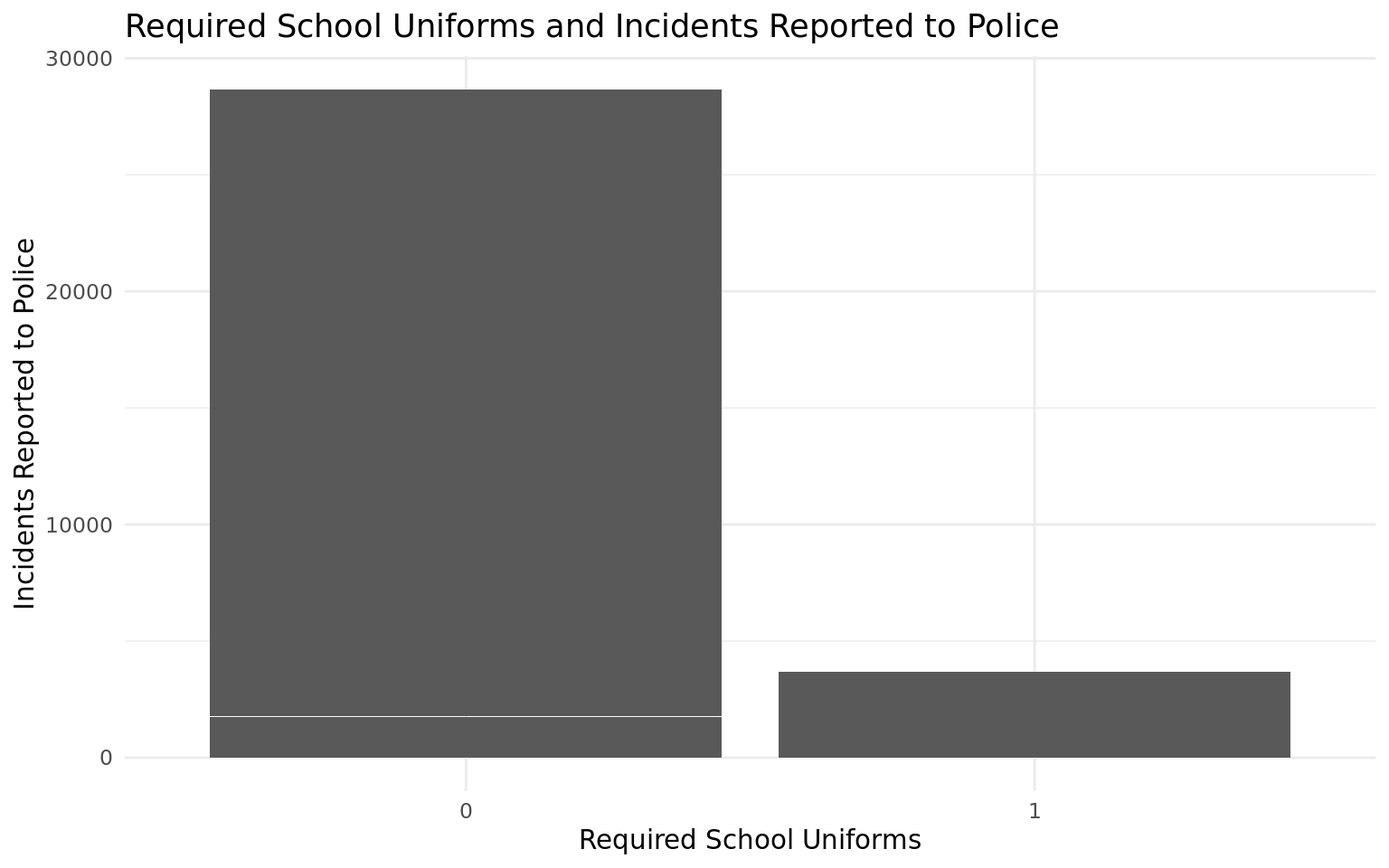
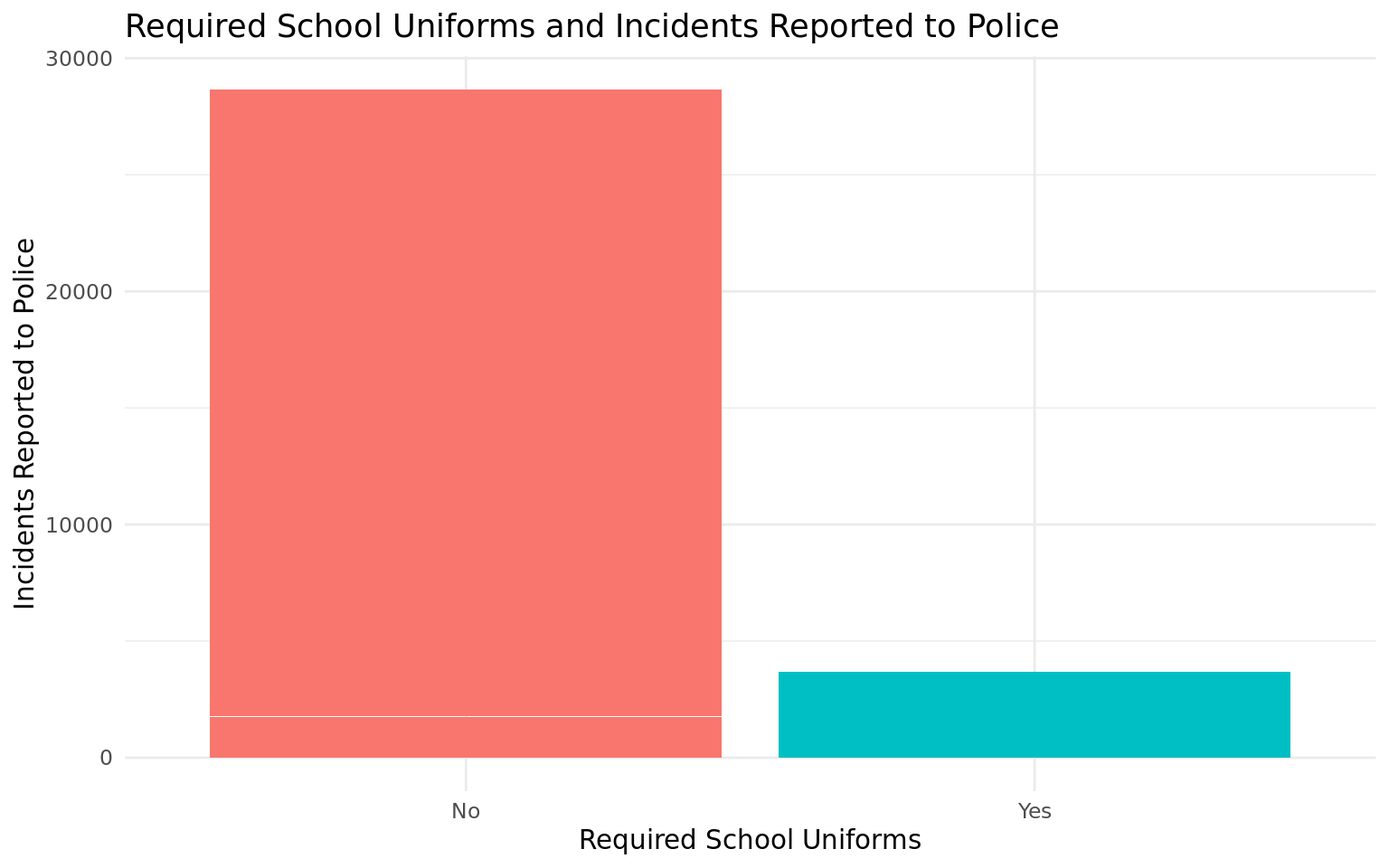
edited all plots. made new resource plot. organized code. - amaia & mili

diff --git a/docs/index.html b/docs/index.html
@@ -153,7 +153,7 @@ ul.task-list li input[type="checkbox"] {
         <div class="navbar-author">The Data Diggers</div>
       </div>
     </div>
-<div id="dashboard-collapse" class="navbar-collapse collapse"><ul class="navbar-nav navbar-nav-scroll me-auto" role="tablist"><li class="nav-item" role="presentation"><a id="tab-home" class="nav-link active" data-bs-toggle="tab" role="tab" data-bs-target="#home" data-scrolling="false" href="#home" aria-controls="home" aria-selected="true"><span class="nav-link-text">Home</span></a></li><li class="nav-item" role="presentation"><a id="tab-c0604-lgbtq-acceptance-groups" class="nav-link" data-bs-toggle="tab" role="tab" data-bs-target="#c0604-lgbtq-acceptance-groups" data-scrolling="false" href="#c0604-lgbtq-acceptance-groups" aria-controls="c0604-lgbtq-acceptance-groups" aria-selected="false"><span class="nav-link-text">C0604: LGBTQ Acceptance Groups</span></a></li><li class="nav-item" role="presentation"><a id="tab-c0610-sworn-law-enforcement-officers" class="nav-link" data-bs-toggle="tab" role="tab" data-bs-target="#c0610-sworn-law-enforcement-officers" data-scrolling="false" href="#c0610-sworn-law-enforcement-officers" aria-controls="c0610-sworn-law-enforcement-officers" aria-selected="false"><span class="nav-link-text">C0610 Sworn law enforcement officers</span></a></li><li class="nav-item" role="presentation"><a id="tab-c0134-uniforms" class="nav-link" data-bs-toggle="tab" role="tab" data-bs-target="#c0134-uniforms" data-scrolling="false" href="#c0134-uniforms" aria-controls="c0134-uniforms" aria-selected="false"><span class="nav-link-text">C0134: Uniforms</span></a></li><li class="nav-item" role="presentation"><a id="tab-c0153-prohibit-use-of-cell-phones" class="nav-link" data-bs-toggle="tab" role="tab" data-bs-target="#c0153-prohibit-use-of-cell-phones" data-scrolling="false" href="#c0153-prohibit-use-of-cell-phones" aria-controls="c0153-prohibit-use-of-cell-phones" aria-selected="false"><span class="nav-link-text">C0153: Prohibit Use of Cell Phones</span></a></li></ul></div></div>
+<div id="dashboard-collapse" class="navbar-collapse collapse"><ul class="navbar-nav navbar-nav-scroll me-auto" role="tablist"><li class="nav-item" role="presentation"><a id="tab-home" class="nav-link active" data-bs-toggle="tab" role="tab" data-bs-target="#home" data-scrolling="false" href="#home" aria-controls="home" aria-selected="true"><span class="nav-link-text">Home</span></a></li><li class="nav-item" role="presentation"><a id="tab-c0604-lgbtq-acceptance-groups" class="nav-link" data-bs-toggle="tab" role="tab" data-bs-target="#c0604-lgbtq-acceptance-groups" data-scrolling="false" href="#c0604-lgbtq-acceptance-groups" aria-controls="c0604-lgbtq-acceptance-groups" aria-selected="false"><span class="nav-link-text">C0604: LGBTQ Acceptance Groups</span></a></li><li class="nav-item" role="presentation"><a id="tab-c0610-sworn-law-enforcement-officers" class="nav-link" data-bs-toggle="tab" role="tab" data-bs-target="#c0610-sworn-law-enforcement-officers" data-scrolling="false" href="#c0610-sworn-law-enforcement-officers" aria-controls="c0610-sworn-law-enforcement-officers" aria-selected="false"><span class="nav-link-text">C0610 Sworn law enforcement officers</span></a></li><li class="nav-item" role="presentation"><a id="tab-c0134-uniforms" class="nav-link" data-bs-toggle="tab" role="tab" data-bs-target="#c0134-uniforms" data-scrolling="false" href="#c0134-uniforms" aria-controls="c0134-uniforms" aria-selected="false"><span class="nav-link-text">C0134: Uniforms</span></a></li><li class="nav-item" role="presentation"><a id="tab-c0176-behavioral-modification-for-students" class="nav-link" data-bs-toggle="tab" role="tab" data-bs-target="#c0176-behavioral-modification-for-students" data-scrolling="false" href="#c0176-behavioral-modification-for-students" aria-controls="c0176-behavioral-modification-for-students" aria-selected="false"><span class="nav-link-text">C0176: Behavioral Modification for Students</span></a></li></ul></div></div>
 </nav>
 </header></header>
 <!-- content -->
@@ -183,12 +183,11 @@ grid-auto-rows: minmax(0, 1fr);">
 </div><div class="card tabset html-fill-item html-fill-container bslib-card" data-bslib-card-init="" data-require-bs-caller="card()" data-full-screen="false">
 <div class="card-header dashboard-card-no-title bslib-navs-card-title">
 
-<ul class="nav nav-tabs card-header-tabs" role="tablist" data-tabsetid="card-tabset-2"><li class="nav-item" role="presentation"><a href="#card-tabset-2-1" role="tab" data-toggle="tab" data-bs-toggle="tab" data-value="Tab 1" aria-selected="true" class="nav-link active">Tab 1</a></li><li class="nav-item" role="presentation"><a href="#card-tabset-2-2" role="tab" data-toggle="tab" data-bs-toggle="tab" data-value="Total Incidents between Urbanicity" aria-selected="false" class="nav-link">Total Incidents between Urbanicity</a></li><li class="nav-item" role="presentation"><a href="#card-tabset-2-3" role="tab" data-toggle="tab" data-bs-toggle="tab" data-value="Tab 3" aria-selected="false" class="nav-link">Tab 3</a></li><li class="nav-item" role="presentation"><a href="#card-tabset-2-4" role="tab" data-toggle="tab" data-bs-toggle="tab" data-value="Tab 4" aria-selected="false" class="nav-link">Tab 4</a></li></ul></div>
+<ul class="nav nav-tabs card-header-tabs" role="tablist" data-tabsetid="card-tabset-2"><li class="nav-item" role="presentation"><a href="#card-tabset-2-1" role="tab" data-toggle="tab" data-bs-toggle="tab" data-value="Urbanicity and Size" aria-selected="true" class="nav-link active">Urbanicity and Size</a></li><li class="nav-item" role="presentation"><a href="#card-tabset-2-2" role="tab" data-toggle="tab" data-bs-toggle="tab" data-value="Total Incidents between Urbanicity" aria-selected="false" class="nav-link">Total Incidents between Urbanicity</a></li><li class="nav-item" role="presentation"><a href="#card-tabset-2-3" role="tab" data-toggle="tab" data-bs-toggle="tab" data-value="School Resources and Practices" aria-selected="false" class="nav-link">School Resources and Practices</a></li></ul></div>
 
 
 
-
-<div class="tab-content html-fill-item html-fill-container" data-tabset-id="card-tabset-2"><div class="tab-pane active show html-fill-item html-fill-container" role="tabpanel" id="card-tabset-2-1"><div class="card-body html-fill-item html-fill-container">
+<div class="tab-content html-fill-item html-fill-container" data-tabset-id="card-tabset-2"><div class="tab-pane active show html-fill-item html-fill-container" role="tabpanel" id="card-tabset-2-1"><div class="card-body html-fill-item html-fill-container" data-title="Urbanicity and Size">
 <div class="cell-output-display html-fill-item html-fill-container">
 <img src="index_files/figure-html/geom tile-1.png" class="img-fluid quarto-dashboard-img-contain">
 </div>
@@ -196,15 +195,10 @@ grid-auto-rows: minmax(0, 1fr);">
 <div class="cell-output-display html-fill-item html-fill-container">
 <img src="index_files/figure-html/Bar graph comparing incidents in the school-1.png" class="img-fluid quarto-dashboard-img-contain">
 </div>
-</div></div><div class="tab-pane html-fill-item html-fill-container" role="tabpanel" id="card-tabset-2-3"><div class="card-body html-fill-item html-fill-container">
+</div></div><div class="tab-pane html-fill-item html-fill-container" role="tabpanel" id="card-tabset-2-3"><div class="card-body html-fill-item html-fill-container" data-title="School Resources and Practices">
 <div class="cell-output-display html-fill-item html-fill-container">
-<div class="plotly html-widget html-fill-item html-fill-container" id="htmlwidget-8db8035c94337abdf35a" style="width:100%;height:406px;"></div>
-<script type="application/json" data-for="htmlwidget-8db8035c94337abdf35a">{"x":{"visdat":{"ab927157ceed":["function () ","plotlyVisDat"]},"cur_data":"ab927157ceed","attrs":{"ab927157ceed":{"x":{},"y":{},"text":{},"hoverinfo":"text","marker":{"color":{},"colorscale":"Viridis"},"alpha_stroke":1,"sizes":[10,100],"spans":[1,20],"type":"bar"}},"layout":{"margin":{"b":40,"l":60,"t":25,"r":10},"title":"How School Resources and Practices impact incidents","xaxis":{"domain":[0,1],"automargin":true,"title":"name","type":"category","categoryorder":"array","categoryarray":["C0110","C0112","C0114","C0116","C0120","C0121","C0122","C0125","C0129","C0134","C0136","C0138","C0139","C0140","C0141","C0142","C0143","C0144","C0146","C0150","C0153","C0155","C0157","C0158","C0161","C0162","C0163","C0165","C0166","C0167","C0169","C0170","C0174","C0175","C0176","C0177","C0179","C0181","C0183","C0186","C0190","C0192","C0204","C0206","C0208","C0210","C0212","C0214","C0216","C0218","C0265","C0266","C0267","C0268","C0269","C0270","C0271","C0272","C0273","C0274","C0276","C0277","C0278","C0600","C0604","C0606","C0608","C0610","C0612","C0614","C0616","C0618","C0621","C0622","C0624","C0626","C0628","C0630","C0632","C0636","C0638","C0640","C0642","C0644","C0646","C0648","C0650","C0661","C0667"]},"yaxis":{"domain":[0,1],"automargin":true,"title":"slope"},"hovermode":"closest","showlegend":false},"source":"A","config":{"modeBarButtonsToAdd":["hoverclosest","hovercompare"],"showSendToCloud":false},"data":[{"x":["C0110","C0112","C0114","C0116","C0120","C0121","C0122","C0125","C0129","C0134","C0136","C0138","C0140","C0139","C0141","C0143","C0142","C0144","C0146","C0150","C0153","C0155","C0158","C0162","C0166","C0170","C0169","C0161","C0157","C0163","C0165","C0167","C0174","C0183","C0176","C0181","C0175","C0177","C0179","C0186","C0600","C0604","C0606","C0608","C0190","C0192","C0204","C0206","C0208","C0210","C0212","C0214","C0216","C0218","C0610","C0612","C0614","C0616","C0618","C0621","C0622","C0624","C0626","C0628","C0630","C0632","C0636","C0638","C0640","C0642","C0644","C0646","C0648","C0650","C0661","C0667","C0266","C0268","C0265","C0267","C0269","C0270","C0272","C0278","C0271","C0273","C0274","C0276","C0277"],"y":[5.2408264462810257,-1.4934518109615009,2.6851247890800107,6.7534264803725863,7.5069566622883697,-0.2886313005563389,0.85698856195285433,7.9913005392651213,3.0375372295839194,-3.9655633616364829,0.93305789797159688,4.4576207093633853,0.0012122974133069214,-0.0099967752337973264,-0.47809664310509148,6.2282407553452774,8.449445608155278,2.3101659961287861,5.0852436154449663,3.3853776933479858,-6.324408691980846,3.1431785547318674,2.1241739288308135,1.0503764584322257,4.1641327033902833,0.51269925851227471,5.0927667131526215,0.30828309777943891,1.0213039551046761,1.5772223664399729,4.7559172541389163,3.6542493672058356,-2.9009574096894486,-1.2861784478693683,-3.6118803418803274,0.4693102089081716,0.91234130001610891,4.1932923316185846,-0.39089238432947643,-0.5686581676750132,4.2655118703429995,14.59515353311137,8.3854052323819452,11.281930045861984,2.6983468279200302,0.78490552931369795,-0.70070027350749642,3.7141710858495123,7.9135351867684758,5.1120427686553098,4.6020738203957414,3.5032041430828391,2.8490534290961222,3.5645380134208398,12.814105393711838,6.6789968278929077,7.0292506376666868,7.0827544040587505,6.8726517271370167,6.7564823100958558,7.1359937849102817,6.744245728972154,8.2271845456166108,6.8318225386007621,7.0390892891317662,7.947499930556436,7.1210145624083898,6.7538030621705376,7.1835786867422193,6.9288936363111402,7.5179763197131315,7.6418972038581412,9.0848717486999835,7.3321287825688248,5.3037245814266498,3.4299559648087103,1.9771093533166966,2.3000428508558644,1.5865777693884211,0.34410159295979365,2.8542184594925444,3.6128117913832676,0.9036948095719608,3.1036009831821354,1.3372205049977928,0.50286325044329871,4.5347264395737845,0.34689794967753279,1.1371500188404129],"text":["Variable:  C0110 <br>Slope:  5.24082644628103","Variable:  C0112 <br>Slope:  -1.4934518109615","Variable:  C0114 <br>Slope:  2.68512478908001","Variable:  C0116 <br>Slope:  6.75342648037259","Variable:  C0120 <br>Slope:  7.50695666228837","Variable:  C0121 <br>Slope:  -0.288631300556339","Variable:  C0122 <br>Slope:  0.856988561952854","Variable:  C0125 <br>Slope:  7.99130053926512","Variable:  C0129 <br>Slope:  3.03753722958392","Variable:  C0134 <br>Slope:  -3.96556336163648","Variable:  C0136 <br>Slope:  0.933057897971597","Variable:  C0138 <br>Slope:  4.45762070936339","Variable:  C0140 <br>Slope:  0.00121229741330692","Variable:  C0139 <br>Slope:  -0.00999677523379733","Variable:  C0141 <br>Slope:  -0.478096643105091","Variable:  C0143 <br>Slope:  6.22824075534528","Variable:  C0142 <br>Slope:  8.44944560815528","Variable:  C0144 <br>Slope:  2.31016599612879","Variable:  C0146 <br>Slope:  5.08524361544497","Variable:  C0150 <br>Slope:  3.38537769334799","Variable:  C0153 <br>Slope:  -6.32440869198085","Variable:  C0155 <br>Slope:  3.14317855473187","Variable:  C0158 <br>Slope:  2.12417392883081","Variable:  C0162 <br>Slope:  1.05037645843223","Variable:  C0166 <br>Slope:  4.16413270339028","Variable:  C0170 <br>Slope:  0.512699258512275","Variable:  C0169 <br>Slope:  5.09276671315262","Variable:  C0161 <br>Slope:  0.308283097779439","Variable:  C0157 <br>Slope:  1.02130395510468","Variable:  C0163 <br>Slope:  1.57722236643997","Variable:  C0165 <br>Slope:  4.75591725413892","Variable:  C0167 <br>Slope:  3.65424936720584","Variable:  C0174 <br>Slope:  -2.90095740968945","Variable:  C0183 <br>Slope:  -1.28617844786937","Variable:  C0176 <br>Slope:  -3.61188034188033","Variable:  C0181 <br>Slope:  0.469310208908172","Variable:  C0175 <br>Slope:  0.912341300016109","Variable:  C0177 <br>Slope:  4.19329233161858","Variable:  C0179 <br>Slope:  -0.390892384329476","Variable:  C0186 <br>Slope:  -0.568658167675013","Variable:  C0600 <br>Slope:  4.265511870343","Variable:  C0604 <br>Slope:  14.5951535331114","Variable:  C0606 <br>Slope:  8.38540523238195","Variable:  C0608 <br>Slope:  11.281930045862","Variable:  C0190 <br>Slope:  2.69834682792003","Variable:  C0192 <br>Slope:  0.784905529313698","Variable:  C0204 <br>Slope:  -0.700700273507496","Variable:  C0206 <br>Slope:  3.71417108584951","Variable:  C0208 <br>Slope:  7.91353518676848","Variable:  C0210 <br>Slope:  5.11204276865531","Variable:  C0212 <br>Slope:  4.60207382039574","Variable:  C0214 <br>Slope:  3.50320414308284","Variable:  C0216 <br>Slope:  2.84905342909612","Variable:  C0218 <br>Slope:  3.56453801342084","Variable:  C0610 <br>Slope:  12.8141053937118","Variable:  C0612 <br>Slope:  6.67899682789291","Variable:  C0614 <br>Slope:  7.02925063766669","Variable:  C0616 <br>Slope:  7.08275440405875","Variable:  C0618 <br>Slope:  6.87265172713702","Variable:  C0621 <br>Slope:  6.75648231009586","Variable:  C0622 <br>Slope:  7.13599378491028","Variable:  C0624 <br>Slope:  6.74424572897215","Variable:  C0626 <br>Slope:  8.22718454561661","Variable:  C0628 <br>Slope:  6.83182253860076","Variable:  C0630 <br>Slope:  7.03908928913177","Variable:  C0632 <br>Slope:  7.94749993055644","Variable:  C0636 <br>Slope:  7.12101456240839","Variable:  C0638 <br>Slope:  6.75380306217054","Variable:  C0640 <br>Slope:  7.18357868674222","Variable:  C0642 <br>Slope:  6.92889363631114","Variable:  C0644 <br>Slope:  7.51797631971313","Variable:  C0646 <br>Slope:  7.64189720385814","Variable:  C0648 <br>Slope:  9.08487174869998","Variable:  C0650 <br>Slope:  7.33212878256882","Variable:  C0661 <br>Slope:  5.30372458142665","Variable:  C0667 <br>Slope:  3.42995596480871","Variable:  C0266 <br>Slope:  1.9771093533167","Variable:  C0268 <br>Slope:  2.30004285085586","Variable:  C0265 <br>Slope:  1.58657776938842","Variable:  C0267 <br>Slope:  0.344101592959794","Variable:  C0269 <br>Slope:  2.85421845949254","Variable:  C0270 <br>Slope:  3.61281179138327","Variable:  C0272 <br>Slope:  0.903694809571961","Variable:  C0278 <br>Slope:  3.10360098318214","Variable:  C0271 <br>Slope:  1.33722050499779","Variable:  C0273 <br>Slope:  0.502863250443299","Variable:  C0274 <br>Slope:  4.53472643957378","Variable:  C0276 <br>Slope:  0.346897949677533","Variable:  C0277 <br>Slope:  1.13715001884041"],"hoverinfo":["text","text","text","text","text","text","text","text","text","text","text","text","text","text","text","text","text","text","text","text","text","text","text","text","text","text","text","text","text","text","text","text","text","text","text","text","text","text","text","text","text","text","text","text","text","text","text","text","text","text","text","text","text","text","text","text","text","text","text","text","text","text","text","text","text","text","text","text","text","text","text","text","text","text","text","text","text","text","text","text","text","text","text","text","text","text","text","text","text"],"marker":{"color":[0.041310626971896254,-0.014893291642717688,0.056633918749019636,0.050596635739071548,0.084143069033811468,-0.0058546120973249861,0.016143376324855969,0.16796675662913088,0.043955045553996479,-0.0612942508178973,0.019609157351814975,0.089766259437350962,1.1183396085692625e-05,-0.00019690248099883892,-0.0090923774305729874,0.13013036965432886,0.12213159833775027,0.044347498729042291,0.066573015581048861,0.058073598577222725,-0.12895151547698036,0.033239649598473413,0.021542198147859182,0.022158025013458021,0.044146061500900433,0.009816930740323436,0.066671503547168859,0.0064964223663188467,0.015260320554235228,0.0167209261925696,0.036387239738087412,0.056842981272980202,-0.031207576385330501,-0.018959986173223885,-0.03581257247110696,0.0054171327327508234,0.019240960396695806,0.056554894647916409,-0.0080449434612677537,-0.0088456540120015852,0.089971755301637757,0.29327811786862429,0.1755419491170889,0.23096532740388606,0.056929588609542239,0.016530395934718726,-0.013943270148352614,0.073329222946301842,0.16513205487850358,0.078282057759280058,0.090036071801015208,0.073837841402154283,0.056150011909095951,0.069470066455576532,0.25364706681834098,0.26321997399700225,0.27438496550545061,0.27447990114795895,0.23365597476602509,0.26558163683478409,0.26980249230236014,0.26490973164836862,0.25746663590798968,0.25595420063170637,0.27451172301503962,0.2830942157666626,0.27451153414313162,0.24457607921288124,0.26683279017899081,0.21893352362269144,0.28408133163311949,0.29313407942880648,0.30190884631146475,0.2730301950221703,0.11094606448333288,0.071171285506689053,0.028088362758996871,0.041302373820101441,0.029521786114678795,0.0054563334279964393,0.059931316129028994,0.030579278551369146,0.019025169330214489,0.058582551743273745,0.027360425010156012,0.0088987423275977227,0.095086954781153074,0.005631865384482391,0.021027375560676714],"colorscale":"Viridis","line":{"color":"rgba(31,119,180,1)"}},"type":"bar","error_y":{"color":"rgba(31,119,180,1)"},"error_x":{"color":"rgba(31,119,180,1)"},"xaxis":"x","yaxis":"y","frame":null}],"highlight":{"on":"plotly_click","persistent":false,"dynamic":false,"selectize":false,"opacityDim":0.20000000000000001,"selected":{"opacity":1},"debounce":0},"shinyEvents":["plotly_hover","plotly_click","plotly_selected","plotly_relayout","plotly_brushed","plotly_brushing","plotly_clickannotation","plotly_doubleclick","plotly_deselect","plotly_afterplot","plotly_sunburstclick"],"base_url":"https://plot.ly"},"evals":[],"jsHooks":[]}</script>
-</div>
-</div></div><div class="tab-pane html-fill-item html-fill-container" role="tabpanel" id="card-tabset-2-4"><div class="card-body html-fill-item html-fill-container">
-<div class="cell-output-display html-fill-item html-fill-container">
-<div class="plotly html-widget html-fill-item html-fill-container" id="htmlwidget-b29a4998e5ee81af4c9b" style="width:100%;height:406px;"></div>
-<script type="application/json" data-for="htmlwidget-b29a4998e5ee81af4c9b">{"x":{"visdat":{"ab9253208f5":["function () ","plotlyVisDat"]},"cur_data":"ab9253208f5","attrs":{"ab9253208f5":{"x":{},"y":{},"text":{},"hoverinfo":"text","marker":{"color":{},"colorscale":"RdBu","colorbar":{"title":"Color Legend"}},"alpha_stroke":1,"sizes":[10,100],"spans":[1,20],"type":"bar"}},"layout":{"margin":{"b":40,"l":60,"t":25,"r":10},"title":"How School resources and practices impact Suspensions","xaxis":{"domain":[0,1],"automargin":true,"title":"name","type":"category","categoryorder":"array","categoryarray":["C0110","C0112","C0114","C0116","C0120","C0121","C0122","C0125","C0129","C0134","C0136","C0138","C0139","C0140","C0141","C0142","C0143","C0144","C0146","C0150","C0153","C0155","C0157","C0158","C0161","C0162","C0163","C0165","C0166","C0167","C0169","C0170","C0174","C0175","C0176","C0177","C0179","C0181","C0183","C0186","C0190","C0192","C0204","C0206","C0208","C0210","C0212","C0214","C0216","C0218","C0265","C0266","C0267","C0268","C0269","C0270","C0271","C0272","C0273","C0274","C0276","C0277","C0278","C0600","C0604","C0606","C0608","C0610","C0612","C0614","C0616","C0618","C0621","C0622","C0624","C0626","C0628","C0630","C0632","C0636","C0638","C0640","C0642","C0644","C0646","C0648","C0650","C0661","C0667"]},"yaxis":{"domain":[0,1],"automargin":true,"title":"slope"},"hovermode":"closest","showlegend":false},"source":"A","config":{"modeBarButtonsToAdd":["hoverclosest","hovercompare"],"showSendToCloud":false},"data":[{"x":["C0110","C0112","C0114","C0116","C0120","C0121","C0122","C0125","C0129","C0134","C0136","C0138","C0140","C0139","C0141","C0143","C0142","C0144","C0146","C0150","C0153","C0155","C0158","C0162","C0166","C0170","C0169","C0161","C0157","C0163","C0165","C0167","C0174","C0183","C0176","C0181","C0175","C0177","C0179","C0186","C0600","C0604","C0606","C0608","C0190","C0192","C0204","C0206","C0208","C0210","C0212","C0214","C0216","C0218","C0610","C0612","C0614","C0616","C0618","C0621","C0622","C0624","C0626","C0628","C0630","C0632","C0636","C0638","C0640","C0642","C0644","C0646","C0648","C0650","C0661","C0667","C0266","C0268","C0265","C0267","C0269","C0270","C0272","C0278","C0271","C0273","C0274","C0276","C0277"],"y":[2.9109842223892062,-1.1393801986518544,1.1781581333266178,4.5401280771789665,4.1596716091264261,-1.0984069876744493,0.22830115827576339,3.2742089466129114,1.0314155267428748,-0.65853720491499834,1.3405970690337634,2.7687083757094597,-0.54995789872105183,-0.45137702330013957,-0.39585055599761526,2.7460061156062356,3.6453422706325931,1.1678202620671523,3.1480622984398212,1.2563738107230273,-2.4786080344229733,1.20317404661726,-0.45412581699344384,1.0702061539349168,2.5129474066767203,-0.10575319860882659,2.1061132659287081,0.21009683385920819,1.1681379477615135,-1.5423643632209978,2.1392468659287731,0.17516244289419017,-2.0587898357659999,-1.8050959327273246,-2.3838603988603881,-0.30116585643584393,0.37384528755573937,2.5836585112348365,-0.36113558654246086,-0.024659680207427929,2.2877437455964591,6.3494346559378529,3.1507155232515123,4.1243564146903147,0.20907092117137199,-0.23473060698678952,-1.2999964632651124,1.9809052977499328,3.9784282877121715,2.7607033616314434,2.1813922062209739,1.0425163018036407,0.97193938869499241,1.1668338126490172,5.5813137369487897,2.9162298031394092,3.0268868553883288,2.9852266574162325,2.7061786148373099,2.9085455128836508,3.2587984649721133,2.8347995825225247,3.4019253153805016,2.6398088203894745,2.94348604186359,3.3560683280510228,2.9919293887482659,2.9039650379385153,3.0249347475136052,2.8517392187653776,3.3043314579750991,3.2343316245694016,3.9015997490854897,3.07648022052234,1.0137372177040147,1.4073030220728928,0.5455916365991369,0.65963825770736628,0.65445340308489042,0.04160632728083602,1.1133844661756647,0.5284749915292043,0.1562342012133468,0.066207568825370086,-0.69673036008189249,-0.58355227901020834,1.0959945895213377,-0.16287369259065479,-0.65219504469819811],"text":["Variable:  C0110 <br>Slope:  2.91098422238921","Variable:  C0112 <br>Slope:  -1.13938019865185","Variable:  C0114 <br>Slope:  1.17815813332662","Variable:  C0116 <br>Slope:  4.54012807717897","Variable:  C0120 <br>Slope:  4.15967160912643","Variable:  C0121 <br>Slope:  -1.09840698767445","Variable:  C0122 <br>Slope:  0.228301158275763","Variable:  C0125 <br>Slope:  3.27420894661291","Variable:  C0129 <br>Slope:  1.03141552674287","Variable:  C0134 <br>Slope:  -0.658537204914998","Variable:  C0136 <br>Slope:  1.34059706903376","Variable:  C0138 <br>Slope:  2.76870837570946","Variable:  C0140 <br>Slope:  -0.549957898721052","Variable:  C0139 <br>Slope:  -0.45137702330014","Variable:  C0141 <br>Slope:  -0.395850555997615","Variable:  C0143 <br>Slope:  2.74600611560624","Variable:  C0142 <br>Slope:  3.64534227063259","Variable:  C0144 <br>Slope:  1.16782026206715","Variable:  C0146 <br>Slope:  3.14806229843982","Variable:  C0150 <br>Slope:  1.25637381072303","Variable:  C0153 <br>Slope:  -2.47860803442297","Variable:  C0155 <br>Slope:  1.20317404661726","Variable:  C0158 <br>Slope:  -0.454125816993444","Variable:  C0162 <br>Slope:  1.07020615393492","Variable:  C0166 <br>Slope:  2.51294740667672","Variable:  C0170 <br>Slope:  -0.105753198608827","Variable:  C0169 <br>Slope:  2.10611326592871","Variable:  C0161 <br>Slope:  0.210096833859208","Variable:  C0157 <br>Slope:  1.16813794776151","Variable:  C0163 <br>Slope:  -1.542364363221","Variable:  C0165 <br>Slope:  2.13924686592877","Variable:  C0167 <br>Slope:  0.17516244289419","Variable:  C0174 <br>Slope:  -2.058789835766","Variable:  C0183 <br>Slope:  -1.80509593272732","Variable:  C0176 <br>Slope:  -2.38386039886039","Variable:  C0181 <br>Slope:  -0.301165856435844","Variable:  C0175 <br>Slope:  0.373845287555739","Variable:  C0177 <br>Slope:  2.58365851123484","Variable:  C0179 <br>Slope:  -0.361135586542461","Variable:  C0186 <br>Slope:  -0.0246596802074279","Variable:  C0600 <br>Slope:  2.28774374559646","Variable:  C0604 <br>Slope:  6.34943465593785","Variable:  C0606 <br>Slope:  3.15071552325151","Variable:  C0608 <br>Slope:  4.12435641469031","Variable:  C0190 <br>Slope:  0.209070921171372","Variable:  C0192 <br>Slope:  -0.23473060698679","Variable:  C0204 <br>Slope:  -1.29999646326511","Variable:  C0206 <br>Slope:  1.98090529774993","Variable:  C0208 <br>Slope:  3.97842828771217","Variable:  C0210 <br>Slope:  2.76070336163144","Variable:  C0212 <br>Slope:  2.18139220622097","Variable:  C0214 <br>Slope:  1.04251630180364","Variable:  C0216 <br>Slope:  0.971939388694992","Variable:  C0218 <br>Slope:  1.16683381264902","Variable:  C0610 <br>Slope:  5.58131373694879","Variable:  C0612 <br>Slope:  2.91622980313941","Variable:  C0614 <br>Slope:  3.02688685538833","Variable:  C0616 <br>Slope:  2.98522665741623","Variable:  C0618 <br>Slope:  2.70617861483731","Variable:  C0621 <br>Slope:  2.90854551288365","Variable:  C0622 <br>Slope:  3.25879846497211","Variable:  C0624 <br>Slope:  2.83479958252252","Variable:  C0626 <br>Slope:  3.4019253153805","Variable:  C0628 <br>Slope:  2.63980882038947","Variable:  C0630 <br>Slope:  2.94348604186359","Variable:  C0632 <br>Slope:  3.35606832805102","Variable:  C0636 <br>Slope:  2.99192938874827","Variable:  C0638 <br>Slope:  2.90396503793852","Variable:  C0640 <br>Slope:  3.02493474751361","Variable:  C0642 <br>Slope:  2.85173921876538","Variable:  C0644 <br>Slope:  3.3043314579751","Variable:  C0646 <br>Slope:  3.2343316245694","Variable:  C0648 <br>Slope:  3.90159974908549","Variable:  C0650 <br>Slope:  3.07648022052234","Variable:  C0661 <br>Slope:  1.01373721770401","Variable:  C0667 <br>Slope:  1.40730302207289","Variable:  C0266 <br>Slope:  0.545591636599137","Variable:  C0268 <br>Slope:  0.659638257707366","Variable:  C0265 <br>Slope:  0.65445340308489","Variable:  C0267 <br>Slope:  0.041606327280836","Variable:  C0269 <br>Slope:  1.11338446617566","Variable:  C0270 <br>Slope:  0.528474991529204","Variable:  C0272 <br>Slope:  0.156234201213347","Variable:  C0278 <br>Slope:  0.0662075688253701","Variable:  C0271 <br>Slope:  -0.696730360081892","Variable:  C0273 <br>Slope:  -0.583552279010208","Variable:  C0274 <br>Slope:  1.09599458952134","Variable:  C0276 <br>Slope:  -0.162873692590655","Variable:  C0277 <br>Slope:  -0.652195044698198"],"hoverinfo":["text","text","text","text","text","text","text","text","text","text","text","text","text","text","text","text","text","text","text","text","text","text","text","text","text","text","text","text","text","text","text","text","text","text","text","text","text","text","text","text","text","text","text","text","text","text","text","text","text","text","text","text","text","text","text","text","text","text","text","text","text","text","text","text","text","text","text","text","text","text","text","text","text","text","text","text","text","text","text","text","text","text","text","text","text","text","text","text","text"],"marker":{"color":[0.04066849526847393,-0.020138373515952431,0.044042500612025755,0.060286741770986557,0.082636084236856241,-0.03948882673762661,0.0076222590422633379,0.12197434846474473,0.026453128022708147,-0.018040617876458866,0.049934976245052762,0.098819687123899311,-0.0089918740708972798,-0.015757486830844571,-0.013342870289138439,0.10168830666814289,0.093388711128104318,0.039733625390128743,0.073044249075741113,0.038198536915442401,-0.089571659532260581,0.022551326016228557,-0.008162672611885663,0.040013796269909994,0.047217941092769333,-0.0035889118670664397,0.048867985253805736,0.0078469392462950111,0.0309356338660308,-0.028980817287564516,0.029008947398516192,0.0048292079225749299,-0.039254273931328923,-0.047162120101481061,-0.04189278444017748,-0.0061612871979486389,0.013973897881434216,0.061759875667728267,-0.013173231293549042,-0.00067986447926990834,0.085526098145851853,0.22613214101107057,0.11690209593455757,0.14964968892563763,0.0078179007354102388,-0.0087617696877121641,-0.045849095192407263,0.069316262150184701,0.14713927967017187,0.074927931366796319,0.07564025061980581,0.038945083989378675,0.03395038358840792,0.040305073121340657,0.19580971374839107,0.2036974501642278,0.2094130362219209,0.20504157108654689,0.16306669005622149,0.20263268874362428,0.21837616808892424,0.19735272671789367,0.18869080544401534,0.17528889539452649,0.20345231983419276,0.21187879839007737,0.20442137570274066,0.186385967869099,0.19914554657268566,0.15970349647581447,0.22130008999048029,0.21989021893043453,0.22980316004838786,0.20304437663602776,0.037584828521154787,0.051755931568678602,0.013737878876956343,0.020994288733542938,0.02158322006679305,0.0011693104832545128,0.041435063266789772,0.0079279806541391364,0.0058296045860598078,0.0022149620446924923,-0.025266250125007578,-0.018302682527877194,0.040731884174737124,-0.0046865981752164101,-0.021374750167914184],"colorscale":"RdBu","colorbar":{"title":"Color Legend"},"line":{"color":"rgba(31,119,180,1)"}},"type":"bar","error_y":{"color":"rgba(31,119,180,1)"},"error_x":{"color":"rgba(31,119,180,1)"},"xaxis":"x","yaxis":"y","frame":null}],"highlight":{"on":"plotly_click","persistent":false,"dynamic":false,"selectize":false,"opacityDim":0.20000000000000001,"selected":{"opacity":1},"debounce":0},"shinyEvents":["plotly_hover","plotly_click","plotly_selected","plotly_relayout","plotly_brushed","plotly_brushing","plotly_clickannotation","plotly_doubleclick","plotly_deselect","plotly_afterplot","plotly_sunburstclick"],"base_url":"https://plot.ly"},"evals":[],"jsHooks":[]}</script>
+<div class="plotly html-widget html-fill-item html-fill-container" id="htmlwidget-285b3dd0186bac1f815e" style="width:100%;height:406px;"></div>
+<script type="application/json" data-for="htmlwidget-285b3dd0186bac1f815e">{"x":{"visdat":{"b2bf5897fb95":["function () ","plotlyVisDat"]},"cur_data":"b2bf5897fb95","attrs":{"b2bf5897fb95":{"x":{},"y":{},"text":{},"hoverinfo":"text","marker":{"color":{},"colorscale":"Viridis"},"alpha_stroke":1,"sizes":[10,100],"spans":[1,20],"type":"bar"}},"layout":{"margin":{"b":40,"l":60,"t":25,"r":10},"title":"School Resources and Practices Impact on Incidents Reported to Police","xaxis":{"domain":[0,1],"automargin":true,"title":"name","type":"category","categoryorder":"array","categoryarray":["C0110","C0112","C0114","C0116","C0120","C0121","C0122","C0125","C0129","C0134","C0136","C0138","C0139","C0140","C0141","C0142","C0143","C0144","C0146","C0150","C0157","C0158","C0161","C0162","C0163","C0165","C0166","C0167","C0169","C0170","C0174","C0175","C0176","C0177","C0179","C0181","C0183","C0186","C0190","C0192","C0204","C0206","C0208","C0210","C0212","C0214","C0216","C0218","C0265","C0266","C0267","C0268","C0269","C0270","C0271","C0272","C0273","C0274","C0276","C0277","C0278","C0600","C0604","C0606","C0608","C0610","C0612","C0614","C0616","C0618","C0621","C0622","C0624","C0626","C0628","C0630","C0632","C0636","C0638","C0640","C0642","C0644","C0646","C0648","C0650","C0661","C0667"]},"yaxis":{"domain":[0,1],"automargin":true,"title":"slope"},"hovermode":"closest","showlegend":false},"source":"A","config":{"modeBarButtonsToAdd":["hoverclosest","hovercompare"],"showSendToCloud":false},"data":[{"x":["C0110","C0112","C0114","C0116","C0120","C0121","C0122","C0125","C0129","C0134","C0136","C0138","C0140","C0139","C0141","C0143","C0142","C0144","C0146","C0150","C0158","C0162","C0166","C0170","C0169","C0161","C0157","C0163","C0165","C0167","C0174","C0183","C0176","C0181","C0175","C0177","C0179","C0186","C0600","C0604","C0606","C0608","C0190","C0192","C0204","C0206","C0208","C0210","C0212","C0214","C0216","C0218","C0610","C0612","C0614","C0616","C0618","C0621","C0622","C0624","C0626","C0628","C0630","C0632","C0636","C0638","C0640","C0642","C0644","C0646","C0648","C0650","C0661","C0667","C0266","C0268","C0265","C0267","C0269","C0270","C0272","C0278","C0271","C0273","C0274","C0276","C0277"],"y":[5.2408264462810257,-1.4934518109615009,2.6851247890800107,6.7534264803725863,7.5069566622883697,-0.2886313005563389,0.85698856195285433,7.9913005392651213,3.0375372295839194,-3.9655633616364829,0.93305789797159688,4.4576207093633853,0.0012122974133069214,-0.0099967752337973264,-0.47809664310509148,6.2282407553452774,8.449445608155278,2.3101659961287861,5.0852436154449663,3.3853776933479858,2.1241739288308135,1.0503764584322257,4.1641327033902833,0.51269925851227471,5.0927667131526215,0.30828309777943891,1.0213039551046761,1.5772223664399729,4.7559172541389163,3.6542493672058356,-2.9009574096894486,-1.2861784478693683,-3.6118803418803274,0.4693102089081716,0.91234130001610891,4.1932923316185846,-0.39089238432947643,-0.5686581676750132,4.2655118703429995,14.59515353311137,8.3854052323819452,11.281930045861984,2.6983468279200302,0.78490552931369795,-0.70070027350749642,3.7141710858495123,7.9135351867684758,5.1120427686553098,4.6020738203957414,3.5032041430828391,2.8490534290961222,3.5645380134208398,12.814105393711838,6.6789968278929077,7.0292506376666868,7.0827544040587505,6.8726517271370167,6.7564823100958558,7.1359937849102817,6.744245728972154,8.2271845456166108,6.8318225386007621,7.0390892891317662,7.947499930556436,7.1210145624083898,6.7538030621705376,7.1835786867422193,6.9288936363111402,7.5179763197131315,7.6418972038581412,9.0848717486999835,7.3321287825688248,5.3037245814266498,3.4299559648087103,1.9771093533166966,2.3000428508558644,1.5865777693884211,0.34410159295979365,2.8542184594925444,3.6128117913832676,0.9036948095719608,3.1036009831821354,1.3372205049977928,0.50286325044329871,4.5347264395737845,0.34689794967753279,1.1371500188404129],"text":["Variable:  C0110 <br>Slope:  5.24082644628103","Variable:  C0112 <br>Slope:  -1.4934518109615","Variable:  C0114 <br>Slope:  2.68512478908001","Variable:  C0116 <br>Slope:  6.75342648037259","Variable:  C0120 <br>Slope:  7.50695666228837","Variable:  C0121 <br>Slope:  -0.288631300556339","Variable:  C0122 <br>Slope:  0.856988561952854","Variable:  C0125 <br>Slope:  7.99130053926512","Variable:  C0129 <br>Slope:  3.03753722958392","Variable:  C0134 <br>Slope:  -3.96556336163648","Variable:  C0136 <br>Slope:  0.933057897971597","Variable:  C0138 <br>Slope:  4.45762070936339","Variable:  C0140 <br>Slope:  0.00121229741330692","Variable:  C0139 <br>Slope:  -0.00999677523379733","Variable:  C0141 <br>Slope:  -0.478096643105091","Variable:  C0143 <br>Slope:  6.22824075534528","Variable:  C0142 <br>Slope:  8.44944560815528","Variable:  C0144 <br>Slope:  2.31016599612879","Variable:  C0146 <br>Slope:  5.08524361544497","Variable:  C0150 <br>Slope:  3.38537769334799","Variable:  C0158 <br>Slope:  2.12417392883081","Variable:  C0162 <br>Slope:  1.05037645843223","Variable:  C0166 <br>Slope:  4.16413270339028","Variable:  C0170 <br>Slope:  0.512699258512275","Variable:  C0169 <br>Slope:  5.09276671315262","Variable:  C0161 <br>Slope:  0.308283097779439","Variable:  C0157 <br>Slope:  1.02130395510468","Variable:  C0163 <br>Slope:  1.57722236643997","Variable:  C0165 <br>Slope:  4.75591725413892","Variable:  C0167 <br>Slope:  3.65424936720584","Variable:  C0174 <br>Slope:  -2.90095740968945","Variable:  C0183 <br>Slope:  -1.28617844786937","Variable:  C0176 <br>Slope:  -3.61188034188033","Variable:  C0181 <br>Slope:  0.469310208908172","Variable:  C0175 <br>Slope:  0.912341300016109","Variable:  C0177 <br>Slope:  4.19329233161858","Variable:  C0179 <br>Slope:  -0.390892384329476","Variable:  C0186 <br>Slope:  -0.568658167675013","Variable:  C0600 <br>Slope:  4.265511870343","Variable:  C0604 <br>Slope:  14.5951535331114","Variable:  C0606 <br>Slope:  8.38540523238195","Variable:  C0608 <br>Slope:  11.281930045862","Variable:  C0190 <br>Slope:  2.69834682792003","Variable:  C0192 <br>Slope:  0.784905529313698","Variable:  C0204 <br>Slope:  -0.700700273507496","Variable:  C0206 <br>Slope:  3.71417108584951","Variable:  C0208 <br>Slope:  7.91353518676848","Variable:  C0210 <br>Slope:  5.11204276865531","Variable:  C0212 <br>Slope:  4.60207382039574","Variable:  C0214 <br>Slope:  3.50320414308284","Variable:  C0216 <br>Slope:  2.84905342909612","Variable:  C0218 <br>Slope:  3.56453801342084","Variable:  C0610 <br>Slope:  12.8141053937118","Variable:  C0612 <br>Slope:  6.67899682789291","Variable:  C0614 <br>Slope:  7.02925063766669","Variable:  C0616 <br>Slope:  7.08275440405875","Variable:  C0618 <br>Slope:  6.87265172713702","Variable:  C0621 <br>Slope:  6.75648231009586","Variable:  C0622 <br>Slope:  7.13599378491028","Variable:  C0624 <br>Slope:  6.74424572897215","Variable:  C0626 <br>Slope:  8.22718454561661","Variable:  C0628 <br>Slope:  6.83182253860076","Variable:  C0630 <br>Slope:  7.03908928913177","Variable:  C0632 <br>Slope:  7.94749993055644","Variable:  C0636 <br>Slope:  7.12101456240839","Variable:  C0638 <br>Slope:  6.75380306217054","Variable:  C0640 <br>Slope:  7.18357868674222","Variable:  C0642 <br>Slope:  6.92889363631114","Variable:  C0644 <br>Slope:  7.51797631971313","Variable:  C0646 <br>Slope:  7.64189720385814","Variable:  C0648 <br>Slope:  9.08487174869998","Variable:  C0650 <br>Slope:  7.33212878256882","Variable:  C0661 <br>Slope:  5.30372458142665","Variable:  C0667 <br>Slope:  3.42995596480871","Variable:  C0266 <br>Slope:  1.9771093533167","Variable:  C0268 <br>Slope:  2.30004285085586","Variable:  C0265 <br>Slope:  1.58657776938842","Variable:  C0267 <br>Slope:  0.344101592959794","Variable:  C0269 <br>Slope:  2.85421845949254","Variable:  C0270 <br>Slope:  3.61281179138327","Variable:  C0272 <br>Slope:  0.903694809571961","Variable:  C0278 <br>Slope:  3.10360098318214","Variable:  C0271 <br>Slope:  1.33722050499779","Variable:  C0273 <br>Slope:  0.502863250443299","Variable:  C0274 <br>Slope:  4.53472643957378","Variable:  C0276 <br>Slope:  0.346897949677533","Variable:  C0277 <br>Slope:  1.13715001884041"],"hoverinfo":["text","text","text","text","text","text","text","text","text","text","text","text","text","text","text","text","text","text","text","text","text","text","text","text","text","text","text","text","text","text","text","text","text","text","text","text","text","text","text","text","text","text","text","text","text","text","text","text","text","text","text","text","text","text","text","text","text","text","text","text","text","text","text","text","text","text","text","text","text","text","text","text","text","text","text","text","text","text","text","text","text","text","text","text","text","text","text"],"marker":{"color":[0.041310626971896254,-0.014893291642717688,0.056633918749019636,0.050596635739071548,0.084143069033811468,-0.0058546120973249861,0.016143376324855969,0.16796675662913088,0.043955045553996479,-0.0612942508178973,0.019609157351814975,0.089766259437350962,1.1183396085692625e-05,-0.00019690248099883892,-0.0090923774305729874,0.13013036965432886,0.12213159833775027,0.044347498729042291,0.066573015581048861,0.058073598577222725,0.021542198147859182,0.022158025013458021,0.044146061500900433,0.009816930740323436,0.066671503547168859,0.0064964223663188467,0.015260320554235228,0.0167209261925696,0.036387239738087412,0.056842981272980202,-0.031207576385330501,-0.018959986173223885,-0.03581257247110696,0.0054171327327508234,0.019240960396695806,0.056554894647916409,-0.0080449434612677537,-0.0088456540120015852,0.089971755301637757,0.29327811786862429,0.1755419491170889,0.23096532740388606,0.056929588609542239,0.016530395934718726,-0.013943270148352614,0.073329222946301842,0.16513205487850358,0.078282057759280058,0.090036071801015208,0.073837841402154283,0.056150011909095951,0.069470066455576532,0.25364706681834098,0.26321997399700225,0.27438496550545061,0.27447990114795895,0.23365597476602509,0.26558163683478409,0.26980249230236014,0.26490973164836862,0.25746663590798968,0.25595420063170637,0.27451172301503962,0.2830942157666626,0.27451153414313162,0.24457607921288124,0.26683279017899081,0.21893352362269144,0.28408133163311949,0.29313407942880648,0.30190884631146475,0.2730301950221703,0.11094606448333288,0.071171285506689053,0.028088362758996871,0.041302373820101441,0.029521786114678795,0.0054563334279964393,0.059931316129028994,0.030579278551369146,0.019025169330214489,0.058582551743273745,0.027360425010156012,0.0088987423275977227,0.095086954781153074,0.005631865384482391,0.021027375560676714],"colorscale":"Viridis","line":{"color":"rgba(31,119,180,1)"}},"type":"bar","error_y":{"color":"rgba(31,119,180,1)"},"error_x":{"color":"rgba(31,119,180,1)"},"xaxis":"x","yaxis":"y","frame":null}],"highlight":{"on":"plotly_click","persistent":false,"dynamic":false,"selectize":false,"opacityDim":0.20000000000000001,"selected":{"opacity":1},"debounce":0},"shinyEvents":["plotly_hover","plotly_click","plotly_selected","plotly_relayout","plotly_brushed","plotly_brushing","plotly_clickannotation","plotly_doubleclick","plotly_deselect","plotly_afterplot","plotly_sunburstclick"],"base_url":"https://plot.ly"},"evals":[],"jsHooks":[]}</script>
 </div>
 </div></div></div><bslib-tooltip placement="auto" bsoptions="[]" data-require-bs-version="5" data-require-bs-caller="tooltip()">
     <template>Expand</template>
@@ -324,14 +318,14 @@ grid-auto-rows: minmax(0, 1fr);">
     </span>
 </bslib-tooltip><script data-bslib-card-init="">bslib.Card.initializeAllCards();</script></div>
 </div>
-</div><div id="c0153-prohibit-use-of-cell-phones" class="dashboard-page tab-pane grid-skip html-fill-item html-fill-container" data-orientation="columns" aria-labelledby="tab-c0153-prohibit-use-of-cell-phones">
+</div><div id="c0176-behavioral-modification-for-students" class="dashboard-page tab-pane grid-skip html-fill-item html-fill-container" data-orientation="columns" aria-labelledby="tab-c0176-behavioral-modification-for-students">
 <div class="html-fill-item html-fill-container bslib-grid" style="display: grid; grid-template-columns: minmax(3em, 1fr) minmax(3em, 1fr);
 grid-auto-rows: minmax(0, 1fr);">
 <div class="html-fill-item html-fill-container bslib-grid" style="display: grid; grid-template-rows: minmax(3em, 1fr); grid-auto-columns: minmax(0, 1fr);">
 <div class="card cell html-fill-item html-fill-container bslib-card" data-bslib-card-init="" data-require-bs-caller="card()" data-full-screen="false">
 <div class="card-body html-fill-item html-fill-container">
 <div class="cell-output-display html-fill-item html-fill-container">
-<img src="index_files/figure-html/Prohibit Use of Phones - Vary with Incidents-1.png" class="img-fluid quarto-dashboard-img-contain">
+<img src="index_files/figure-html/Behavioral Modification for Students - Vary with Incidents-1.png" class="img-fluid quarto-dashboard-img-contain">
 </div>
 </div>
 <bslib-tooltip placement="auto" bsoptions="[]" data-require-bs-version="5" data-require-bs-caller="tooltip()">
@@ -353,11 +347,11 @@ grid-auto-rows: minmax(0, 1fr);">
 </div>
 <div class="tab-content html-fill-item html-fill-container" data-tabset-id="card-tabset-10"><div class="tab-pane active show html-fill-item html-fill-container" role="tabpanel" id="card-tabset-10-1"><div class="card-body html-fill-item html-fill-container" data-title="School Size">
 <div class="cell-output-display html-fill-item html-fill-container">
-<img src="index_files/figure-html/Prohibit Use of Phones - Vary with Size-1.png" class="img-fluid quarto-dashboard-img-contain">
+<img src="index_files/figure-html/Behavioral Modification for Student - Vary with Size-1.png" class="img-fluid quarto-dashboard-img-contain">
 </div>
 </div></div><div class="tab-pane html-fill-item html-fill-container" role="tabpanel" id="card-tabset-10-2"><div class="card-body html-fill-item html-fill-container" data-title="School Urbanicity">
 <div class="cell-output-display html-fill-item html-fill-container">
-<img src="index_files/figure-html/Prohibit Use of Phones - Vary with Urbanicity-1.png" class="img-fluid quarto-dashboard-img-contain">
+<img src="index_files/figure-html/Behavioral Modification for Student - Vary with Urbanicity-1.png" class="img-fluid quarto-dashboard-img-contain">
 </div>
 </div></div></div><bslib-tooltip placement="auto" bsoptions="[]" data-require-bs-version="5" data-require-bs-caller="tooltip()">
     <template>Expand</template>
